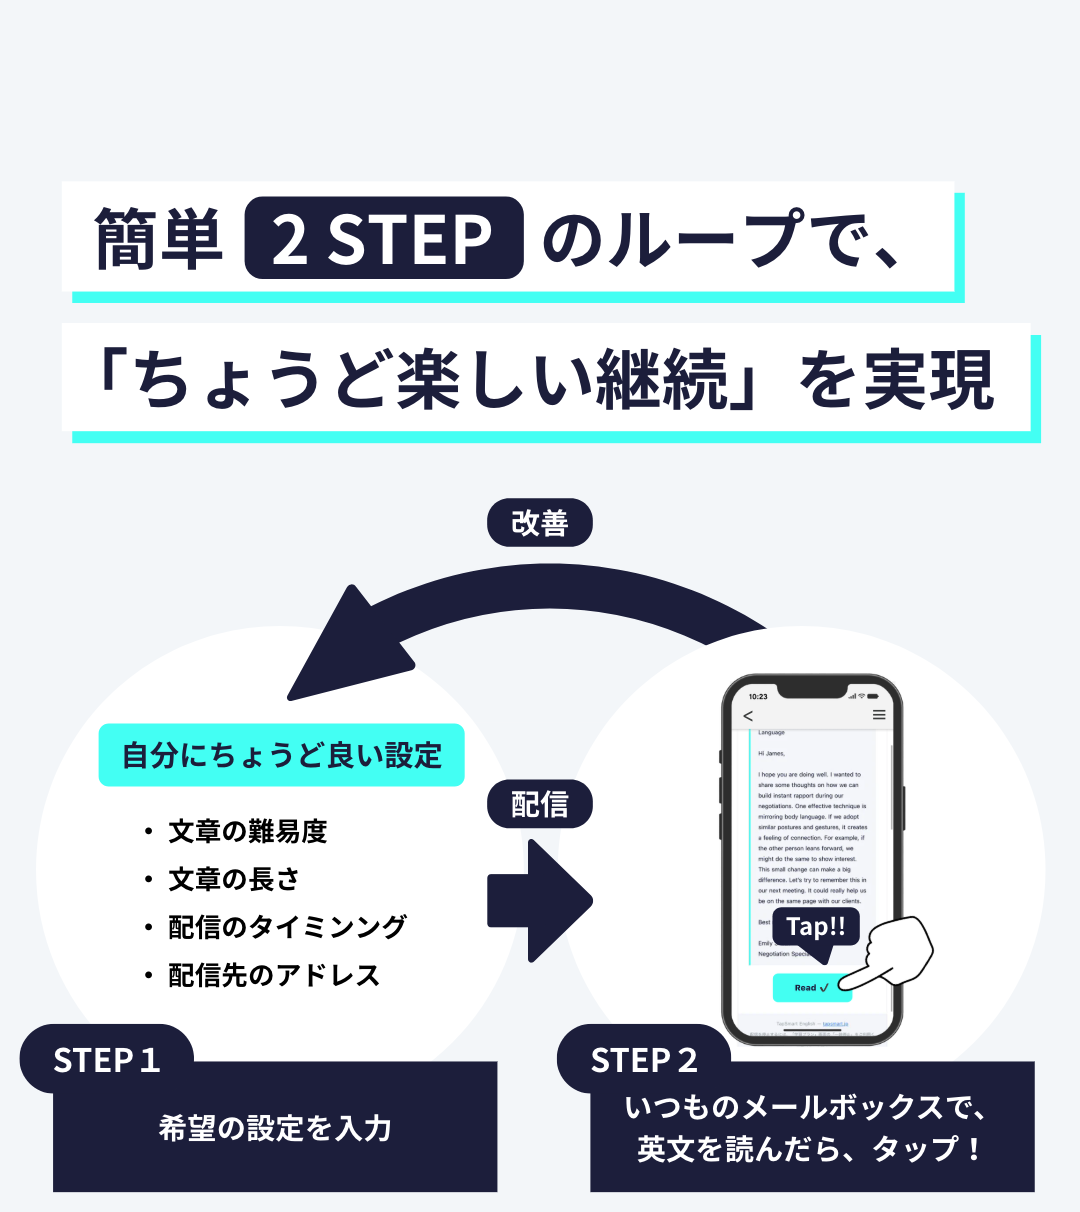
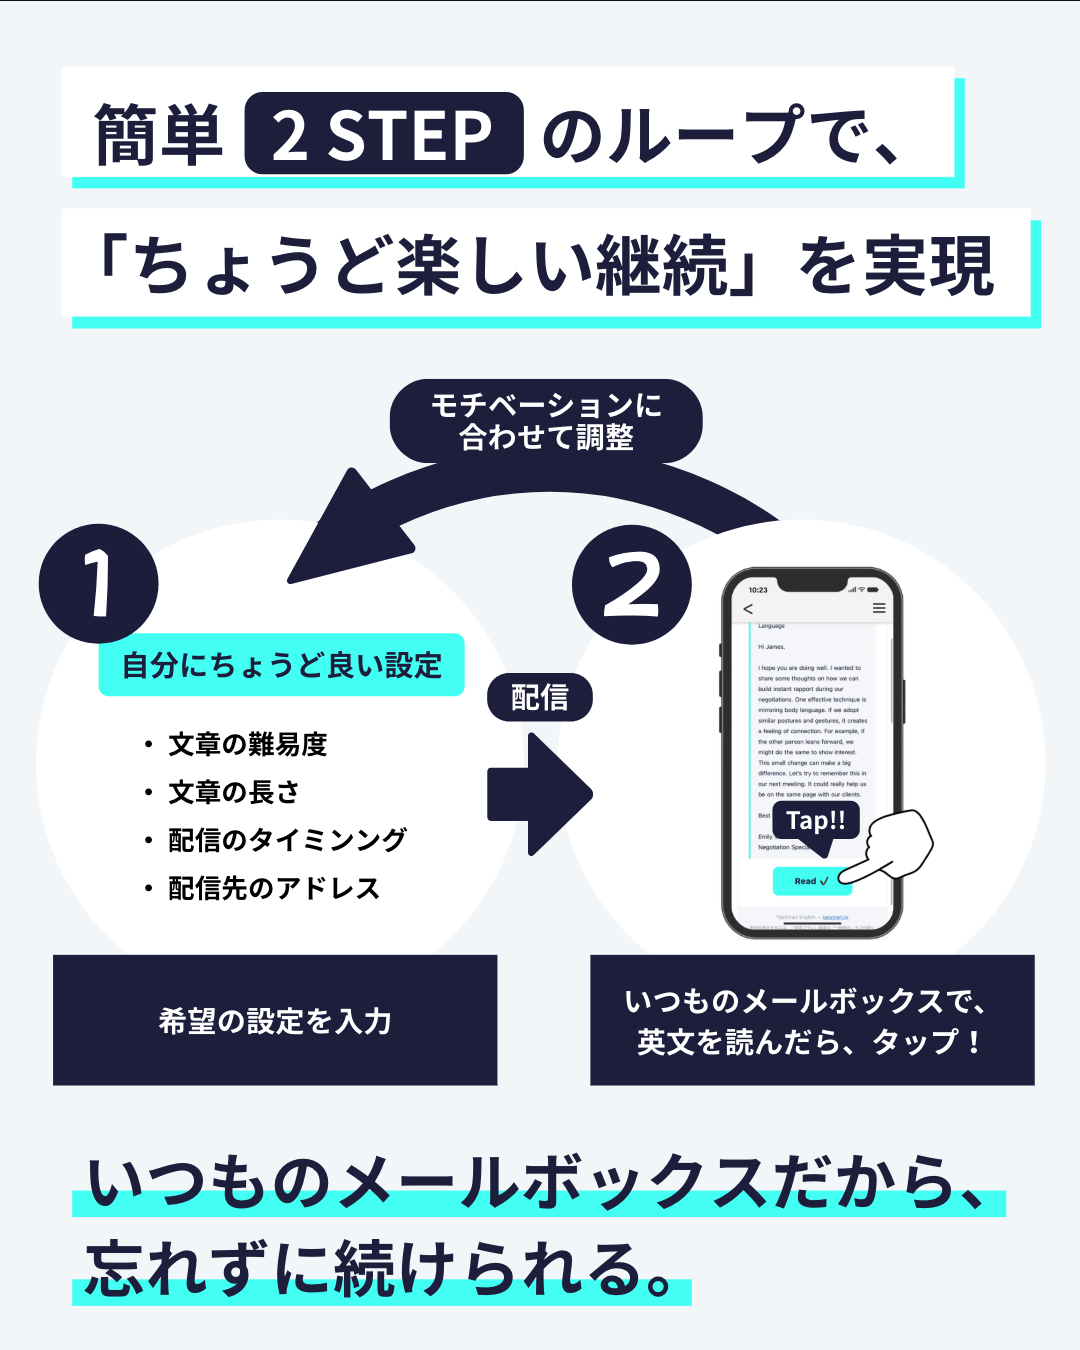
Update mobile layout: replace description image, add calender section, remove strengths block
- Replace description_mobile.png
- Add calenderDescription_mobile.png section (SP only, light gray bg) in place of strengths block
- Remove "TapSmart Englishの強み" section entirely
- Transfer teal gradient background to how-it-works on mobile
- Add padding-top to description-image-section on mobile
- Narrow feature cards on mobile via increased horizontal padding

diff --git a/app/landing.css b/app/landing.css
@@ -393,101 +393,9 @@
   background: var(--white);
 }
 
-/* Function Details Section */
-.function-details {
-  padding: 100px 40px;
-  background: linear-gradient(170deg, #F5FFFE 0%, #ECFCFA 50%, #F5FFFE 100%);
-  position: relative;
-  overflow: hidden;
-}
-
-
-.function-details .section-header {
-  position: relative;
-  z-index: 1;
-  margin-bottom: 40px;
-}
-
-.strengths-brand {
-  color: var(--dark-navy);
-}
-
-.function-details .section-header h2 {
-  color: var(--dark-navy);
-  letter-spacing: -0.5px;
-}
-
-.function-details .section-header p {
-  font-size: 20px;
-  font-weight: 600;
-  color: var(--dark-navy);
-  opacity: 1;
-  letter-spacing: 2px;
-}
-
-.function-list {
-  max-width: 1000px;
-  position: relative;
-  z-index: 1;
-  margin: 0 auto;
-  display: flex;
-  flex-direction: column;
-  gap: 28px;
-}
-
-.function-item {
-  display: grid;
-  grid-template-columns: 64px 1fr;
-  gap: 28px;
-  align-items: center;
-  background: linear-gradient(135deg, rgba(245, 255, 254, 0.95) 0%, rgba(236, 252, 250, 0.9) 100%);
-  backdrop-filter: blur(10px);
-  padding: 32px 36px;
-  border-radius: 18px;
-  border: 1px solid rgba(78, 255, 244, 0.15);
-  box-shadow: 0 2px 16px rgba(29, 31, 66, 0.06);
-  transition: all 0.3s ease;
-}
-
-.function-item:hover {
-  background: linear-gradient(135deg, rgba(240, 255, 253, 0.98) 0%, rgba(228, 250, 248, 0.95) 100%);
-  transform: translateY(-2px);
-  box-shadow: 0 8px 28px rgba(29, 31, 66, 0.1);
-  border-color: rgba(78, 255, 244, 0.28);
-}
-
-.function-icon {
-  width: 80px;
-  height: 80px;
-  background: linear-gradient(135deg, #F0F9FF 0%, #E0F2FE 100%);
-  border-radius: 16px;
-  display: flex;
-  align-items: center;
-  justify-content: center;
-  font-size: 40px;
-  flex-shrink: 0;
-}
-
-.function-icon-img {
-  width: 64px;
-  height: 64px;
-  border-radius: 16px;
-  object-fit: cover;
-  flex-shrink: 0;
-}
-
-.function-content h3 {
-  font-family: 'Outfit', sans-serif;
-  font-size: 22px;
-  font-weight: 700;
-  color: var(--dark-navy);
-  margin-bottom: 10px;
-}
-
-.function-content p {
-  font-size: 16px;
-  line-height: 1.8;
-  color: #4B5563;
+/* Calender Section (SP only) */
+.calender-section {
+  display: none;
 }
 
 .steps {
@@ -808,7 +716,7 @@
   }
 
   .description-image-section {
-    padding-top: 0;
+    padding-top: 40px;
   }
 
   .description-img-pc {
@@ -839,6 +747,22 @@
     position: relative;
     z-index: 1;
     padding: 40px 24px 48px;
+  }
+
+  .calender-section {
+    display: flex;
+    justify-content: center;
+    padding: 40px 20px;
+    background: var(--light-gray);
+  }
+
+  .calender-img-sp {
+    width: 90%;
+    max-width: 500px;
+  }
+
+  .how-it-works {
+    background: linear-gradient(170deg, #F5FFFE 0%, #ECFCFA 50%, #F5FFFE 100%);
   }
 }
 
@@ -927,21 +851,11 @@
   }
 
   .features {
-    padding: 60px 20px;
+    padding: 60px 36px;
   }
 
   .how-it-works {
     padding: 60px 20px;
-  }
-
-  .function-details {
-    padding: 60px 20px;
-  }
-
-  .function-item {
-    grid-template-columns: 1fr;
-    gap: 16px;
-    padding: 24px;
   }
 
   .step {

diff --git a/app/page.tsx b/app/page.tsx
@@ -98,34 +98,8 @@ export default function Home() {
         </div>
       </section>
 
-      <section className="function-details" id="strengths">
-        <div className="section-header strengths-header">
-          <h2><span className="strengths-brand">TapSmart Englishの強み</span></h2>
-          <p>継続することを徹底サポート</p>
-        </div>
-        <div className="function-list">
-          <div className="function-item">
-            <img src="/images/strength-tap.png" alt="Tap" className="function-icon-img" />
-            <div className="function-content">
-              <h3>アプリを開かず、「Tap」するだけの簡単操作</h3>
-              <p>毎日指定した時間に、英文、単語の解説、日本語訳、が記載されたメールが届くので、読んだら「Read ✔」ボタンを押すだけ</p>
-            </div>
-          </div>
-          <div className="function-item">
-            <img src="/images/strength-adjust.png" alt="調整" className="function-icon-img" />
-            <div className="function-content">
-              <h3>モチベーションに合わせた難易度調整</h3>
-              <p>「ちょっと読むのが大変」と感じたら、文章の難易度を下げるか、単語数を下げて調整、もちろん逆も大歓迎</p>
-            </div>
-          </div>
-          <div className="function-item">
-            <img src="/images/strength-record.png" alt="記録" className="function-icon-img" />
-            <div className="function-content">
-              <h3>「日々の歩み」で積み重ねを確認</h3>
-              <p>完璧じゃなくても大丈夫、月間・週間の達成率で自分の「歩み」を実感。</p>
-            </div>
-          </div>
-        </div>
+      <section className="calender-section">
+        <img src="/images/calenderDescription_mobile.png" alt="" className="calender-img-sp" />
       </section>
 
       <section className="how-it-works" id="how">
